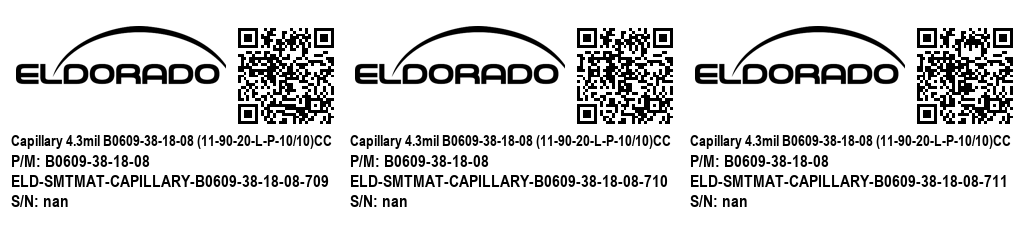
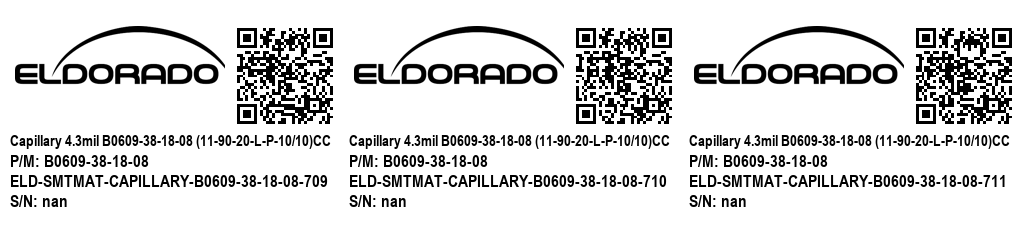
...

diff --git a/qr_functions.py b/qr_functions.py
@@ -250,9 +250,9 @@ def adhesive_tag_composition_102x23(img1, img2, img3):
     img2open = Image.open('images/gen_tags/'+str(img2)+'.png');
     img3open = Image.open('images/gen_tags/'+str(img3)+'.png');
 
-    img1_pos = ( (1) , (1) );
-    img2_pos = ( (340) , (1) );
-    img3_pos = ( (680) , (1) );
+    img1_pos = ( (0) , (1) );
+    img2_pos = ( (339) , (1) );
+    img3_pos = ( (679) , (1) );
 
     img_mounting.paste(img1open, img1_pos);
     img_mounting.paste(img2open, img2_pos);
